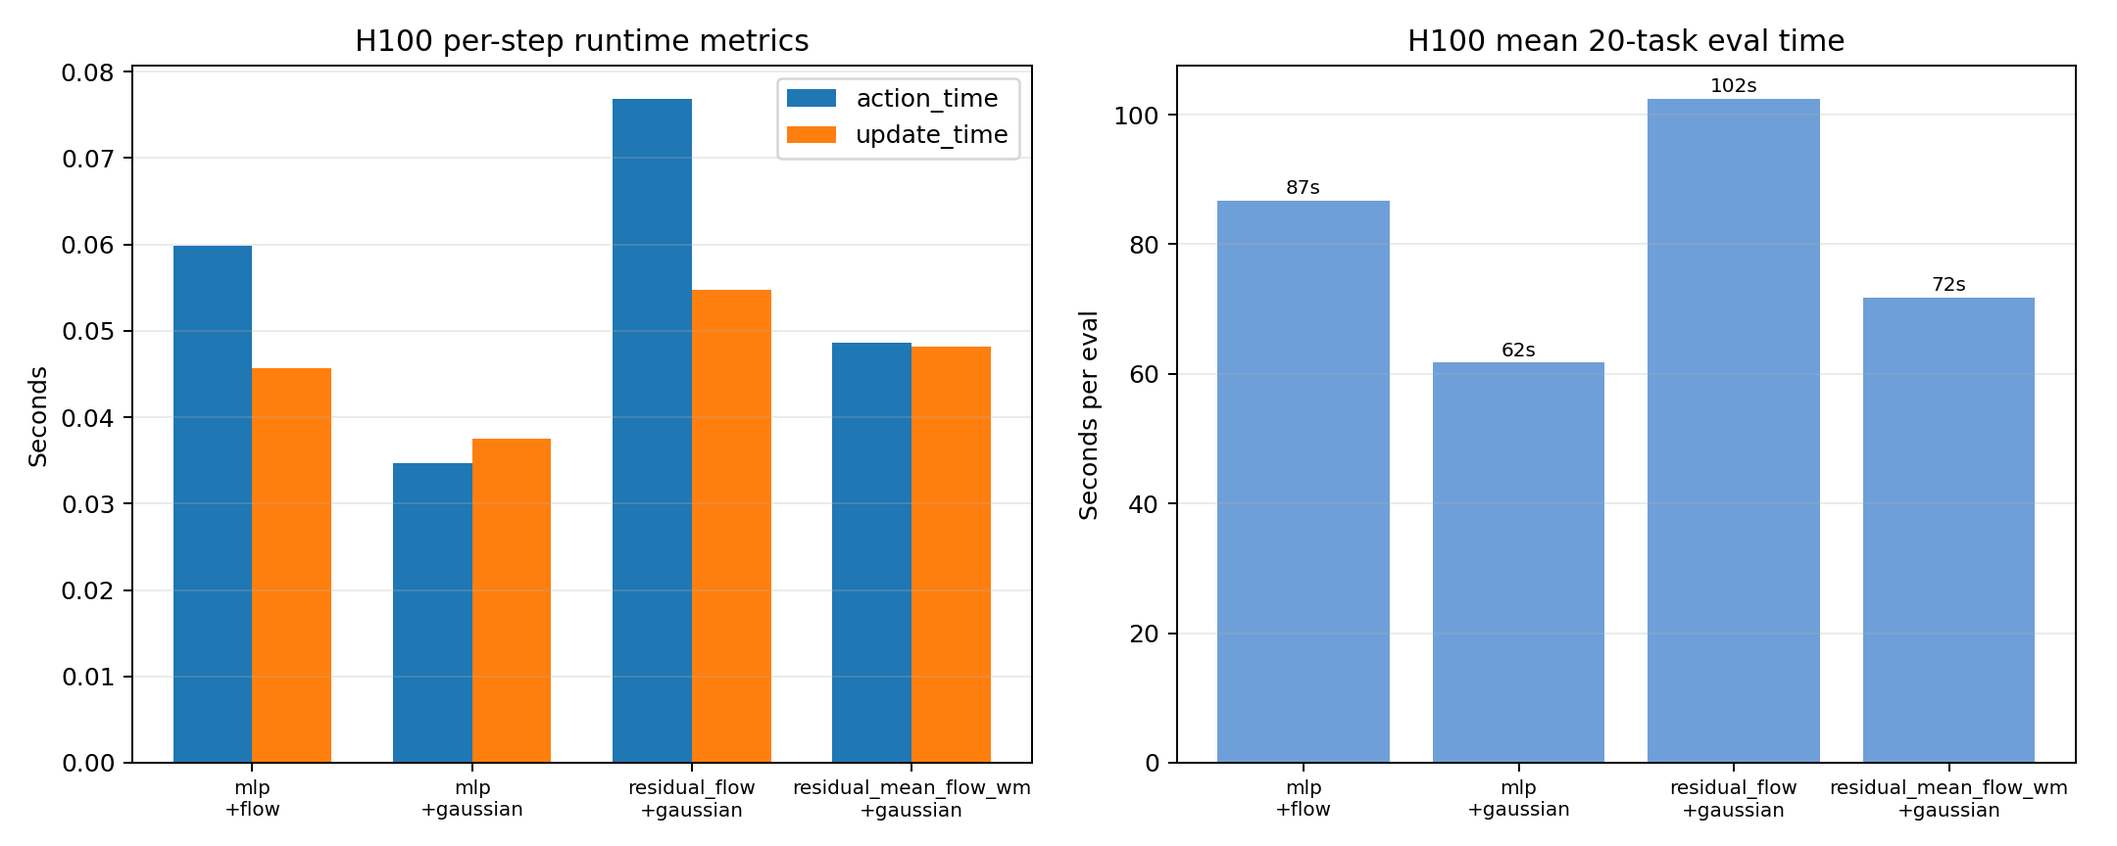
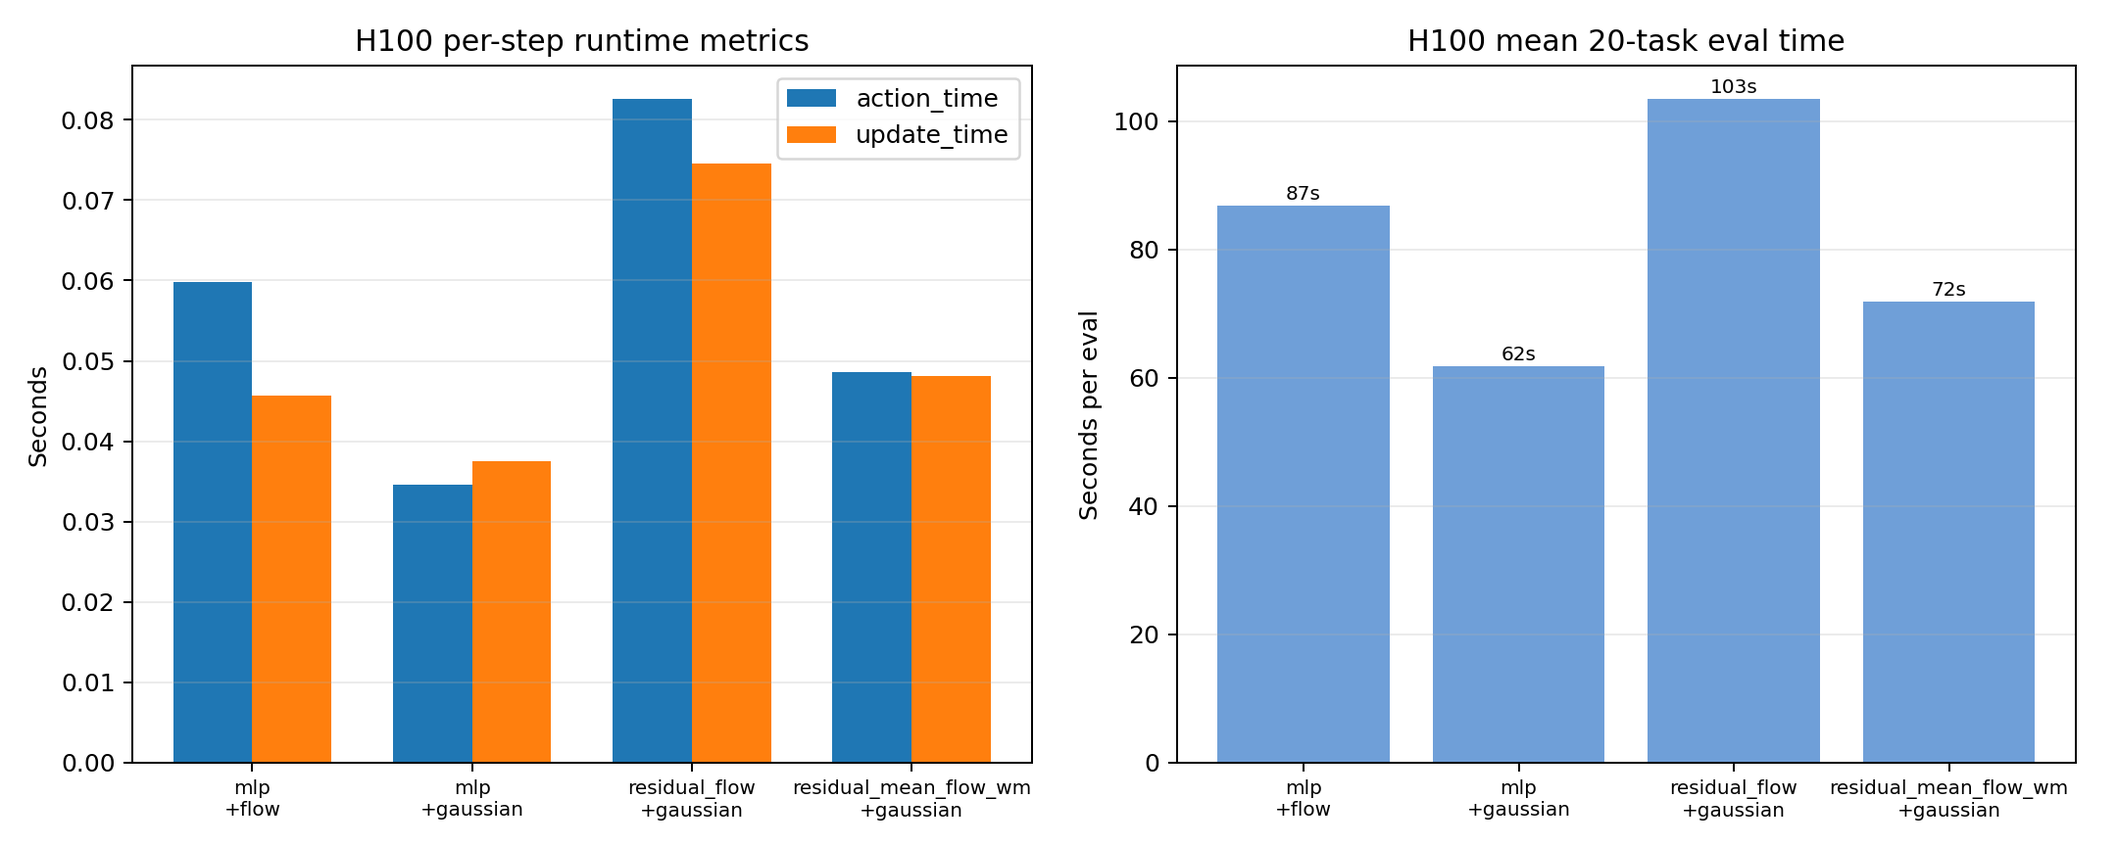
Update subset20 experiment status

diff --git a/docs/newt_progress_revision_suggestions.md b/docs/newt_progress_revision_suggestions.md
@@ -1,0 +1,100 @@
+# Newt Progress Report Revision Suggestions
+
+These are suggested English additions for `docs/Newt_progress.pdf`, focused on the empty `Conclusion & Insights` and `Problems & Next Steps` sections. They are written to complement the existing tables rather than repeat them.
+
+## Quick Fixes Before Finalizing
+
+- In Key Results, the `Our subset40 best completed 2x2` note should say `best single run 0.339`, not `0.256`.
+- Replace `randomly choosen` with `randomly chosen`.
+- Clarify that current `mean +/- std` values are mostly across completed GPU/replicate runs, not true independent random seeds, unless a table explicitly uses seeds.
+- Keep the caveat that subset20/subset40 scores are not directly comparable to the official 200-task Newt score, because the task distribution and number of tasks differ.
+
+## Suggested: Conclusion & Insights
+
+- **We preserved the Newt pipeline and isolated architecture changes.**
+  - The experiments keep the original offline-pretrain + online-RL + MPC evaluation structure.
+  - The main changes are only the latent world-model dynamics and the policy prior.
+  - This makes the results interpretable as architecture ablations, not a new pipeline.
+
+- **The main signal is asymmetric: flow policy is more promising than flow WM.**
+  - `MLP WM + flow policy` gives the strongest peak-score signal.
+  - Replacing the MLP world model with flow dynamics has not reliably improved performance.
+  - Interpretation: the policy prior may benefit from richer action distributions, while the world model must remain stable and cheap for repeated MPC rollouts.
+
+- **The original MLP world model is a strong inductive bias for Newt.**
+  - Closed-loop MPC repeatedly queries the latent dynamics during planning.
+  - A small deterministic MLP predictor can work well if it is locally accurate, stable, and fast.
+  - Flow dynamics adds expressivity, but that expressivity is not useful unless the planner can exploit uncertainty or multi-modal predictions.
+
+- **Flow-WM works better as a residual correction than as a full replacement.**
+  - Pure flow dynamics is clearly weak.
+  - Residual-flow variants are consistently better than pure flow, but still below MLP-WM baselines.
+  - Research implication: flow is more plausible as an uncertainty/correction layer on top of MLP dynamics than as the entire dynamics model.
+
+- **Higher per-task interaction gives clearer architecture signals.**
+  - subset40 5M is mainly a fast screen: about 125k steps per task.
+  - subset20 10M reaches about 500k steps per task, matching the per-task budget of the official 100M/200-task setting.
+  - Scores become much stronger in subset20, suggesting architecture comparisons need enough online data to be meaningful.
+
+- **Compute cost changes the conclusion.**
+  - `MLP WM + Gaussian policy` remains the strongest Pareto baseline: reliable, stable, and fast.
+  - `MLP WM + flow policy` has the best peak signal but is slower and less stable.
+  - `Residual-flow WM + Gaussian` is currently dominated: slower than MLP baselines and lower in score.
+
+- **Current research direction.**
+  - Do not prioritize making the whole world model a flow.
+  - Prioritize flow where distributional modeling can affect planning or policy warm-starting.
+  - Most promising directions: cheaper flow policy, residual/uncertainty-aware flow WM, and planner-aware flow rollouts.
+
+## Suggested: Problems & Next Steps
+
+- **Current comparison is not yet official-grade.**
+  - Most averages are over completed GPU/replicate runs, not true random seeds.
+  - subset20/subset40 are useful architecture screens, but they are not directly comparable to the official 200-task Newt benchmark.
+  - Next: rerun the strongest cells with fixed tasks, fixed hardware, and at least 3 true seeds.
+
+- **Training stability is still unresolved.**
+  - Some high-performing runs show strong peak scores but lower final scores, especially `MLP WM + flow policy` and residual-flow WM.
+  - Final score alone may miss useful transient gains; peak score alone may overstate robustness.
+  - Next: report final score, peak score, score-vs-step curves, and area under the learning curve.
+
+- **Average score is too coarse to explain why flow helps or fails.**
+  - Flow may help specific domains, horizons, or contact-heavy tasks while hurting others.
+  - A single averaged MMBench score cannot distinguish global failure from domain-specific tradeoffs.
+  - Next: add domain-level curves and a small number of task-level visualizations; keep the full task breakdown in the appendix.
+
+- **Flow-WM may have a planner/objective mismatch.**
+  - The flow dynamics are trained for next-latent prediction, but MPC needs stable multi-step rollouts under candidate action sequences.
+  - If flow uncertainty is not used by the planner, extra expressivity can become sampling noise rather than useful planning information.
+  - Next: test multi-step latent rollout losses, uncertainty-aware MPC scoring, and residual corrections that only model MLP prediction error.
+
+- **Flow policy has a real signal, but its compute cost must be justified.**
+  - `MLP WM + flow policy` gives the strongest peak signal, but action selection is slower than the Gaussian prior.
+  - The key question is whether the score gain survives true-seed repeats and remains Pareto-efficient.
+  - Next: try cheaper flow-policy variants, including fewer flow steps, flow-to-Gaussian distillation, or using flow only to initialize CEM candidates.
+
+- **Recommended next experiments.**
+  - Run controlled subset20 10M true-seed repeats for `MLP+Gaussian`, `MLP+flow policy`, `residual_flow+Gaussian`, and `residual_mean_flow+Gaussian`.
+  - Extend the best two subset20 cells to 20M to test whether peak-to-final drops are noise or real plateaus.
+  - Run subset40 10M for `MLP+Gaussian` and `MLP+flow policy` to test whether the flow-policy signal survives more tasks.
+  - Add world-model diagnostics: one-step latent error, multi-step rollout error, reward prediction error, Q-value consistency, and flow-sample calibration.
+  - Test a planner-aware flow-WM where MPC evaluates multiple latent transition samples or uses uncertainty/risk penalties.
+  - Scale toward the full 200-task official setting only after the subset20/subset40 signal is robust.
+
+## Optional Ablation Mini-Conclusions
+
+### Architecture Ablation
+
+The 2x2 result should be read as evidence that the MLP world model is currently the anchor of performance. Flow policy can help when attached to the MLP world model, but flow dynamics does not rescue performance when the MLP dynamics is removed.
+
+### Flow-WM Variants
+
+The variant comparison shows that residualizing flow is necessary but not sufficient. Pure flow is clearly weak, endpoint flow is better but still not competitive, and residual/shortcut/OT-CFM variants are close to each other. This means the current limitation is probably not just the exact flow parameterization; it is how the flow prediction is used by the planner and trained for rollout utility.
+
+### Compute / Runtime Ablation
+
+Runtime should be treated as part of the scientific result. A variant that slightly improves peak score but substantially slows action selection may not be attractive for MPC-based online RL, where the world model is queried many times per environment step.
+
+### Training Budget / Scaling Ablation
+
+The scaling ablation supports using fewer tasks with higher per-task steps as an intermediate research regime. It gives a clearer learning signal while preserving the same offline-pretrain plus online-RL pipeline, but it should be presented as an architecture-development setting rather than an official benchmark replacement.

diff --git a/docs/experiment_results_summary.md b/docs/experiment_results_summary.md
@@ -1,6 +1,6 @@
 # Experiment Results Summary
 
-Last updated: 2026-06-11 03:38 EDT
+Last updated: 2026-06-11 14:52 EDT
 
 Metric: `avg_score`, the Newt/MMBench normalized score averaged over evaluated tasks. This is the same normalized-score definition used by the official Newt paper, but our local subset20/subset40 results are not directly comparable to the official 200-task protocol.
 
@@ -59,28 +59,29 @@ Metric: `avg_score`, the Newt/MMBench normalized score averaged over evaluated t
 | Subset40 WM variant | 40 | 5M + 50k demo | endpoint_flow | Gaussian | H200 | complete | 5M | 0.19475 | Endpoint flow not competitive. |
 | Subset40 WM variant | 40 | 5M + 50k demo | endpoint_flow | Gaussian | L40S | complete | 5M | 0.18724 | Endpoint flow not competitive. |
 | Subset20 10M high-step | 20 | 10M target + 50k demo | MLP | Gaussian | H100 | complete | 10.0M | 0.53816 | First completed 10M subset20 cell; peak observed eval was 0.59102 at 8.8M. |
-| Subset20 10M high-step | 20 | 10M target + 50k demo | MLP | flow | L40S | resubmitted | 8.8M | 0.46663 | Preempted again and resubmitted as `9820444_[1]`; peak observed eval was 0.55132 at 8.0M. |
+| Subset20 10M high-step | 20 | 10M target + 50k demo | MLP | flow | L40S | complete | 10.0M | 0.50825 | Reached 10M; peak observed eval was 0.55390 at 9.4M. |
 | Subset20 10M high-step | 20 | 10M target + 50k demo | MLP | Gaussian | L40S | complete | 10.0M | 0.48801 | Completed 10M despite Slurm preemption label; peak observed eval was 0.55139 at 7.4M. |
 | Subset20 10M high-step | 20 | 10M target + 50k demo | MLP | Gaussian | H200 | reached target | 10.0M | 0.49223 | Reached 10M while job `9809460_0` was still active; peak observed eval was 0.53666 at 7.4M. |
 | Subset20 10M high-step | 20 | 10M target + 50k demo | MLP | flow | H100 | complete | 10.0M | 0.50044 | Reached 10M; peak observed eval was 0.58825 at 4.0M. |
 | Subset20 10M high-step | 20 | 10M target + 50k demo | MLP | flow | H200 | complete | 10.0M | 0.53852 | Reached 10M; peak observed eval was 0.58663 at 8.8M. |
 | Subset20 10M high-step | 20 | 10M target + 50k demo | MLP | Gaussian | A100 | complete | 10.0M | 0.53570 | Completed 10M; peak observed eval was 0.56490 at 9.4M. |
-| Subset20 10M high-step | 20 | 10M target + 50k demo | MLP | flow | A100 | resubmitted | 9.0M | 0.60544 | Best subset20 MLP+flow snapshot so far; preempted and resubmitted as `9820443_[1]`. |
-| Subset20 10M high-step | 20 | 10M target + 50k demo | residual_flow | Gaussian | L40S | resubmitted | 6.6M | 0.43467 | Preempted again and resubmitted as `9820444_[2]`; peak observed eval was 0.44826 at 5.6M. |
-| Subset20 10M high-step | 20 | 10M target + 50k demo | residual_mean_flow_wm | Gaussian | A100 | resubmitted | 8.4M | 0.46637 | Preempted and resubmitted as `9820443_[3]`; peak observed eval was 0.48471 at 7.2M. |
-| Subset20 10M high-step | 20 | 10M target + 50k demo | residual_mean_flow_wm | Gaussian | H200 | running | 8.2M | 0.41040 | Active as `9813253_3`; peak observed eval was 0.46176 at 8.0M. |
+| Subset20 10M high-step | 20 | 10M target + 50k demo | MLP | flow | A100 | complete | 10.0M | 0.57810 | Best subset20 final and peak MLP+flow run so far; peak observed eval was 0.60544 at 9.0M. |
+| Subset20 10M high-step | 20 | 10M target + 50k demo | residual_flow | Gaussian | L40S | running | 7.6M | 0.37208 | Active as `9820444_2`; peak observed eval was 0.45885 at 6.8M. |
+| Subset20 10M high-step | 20 | 10M target + 50k demo | residual_mean_flow_wm | Gaussian | A100 | complete | 10.0M | 0.37559 | Reached 10M; peak observed eval was 0.48471 at 7.2M. |
+| Subset20 10M high-step | 20 | 10M target + 50k demo | residual_mean_flow_wm | Gaussian | H200 | complete | 10.0M | 0.39218 | Reached 10M; peak observed eval was 0.47535 at 9.0M. |
 | Subset20 10M high-step | 20 | 10M target + 50k demo | residual_mean_flow_wm | Gaussian | H100 | complete | 10.0M | 0.48851 | Completed 10M despite Slurm preemption label; peak observed eval was 0.49207 at 9.2M. |
-| Subset20 10M high-step | 20 | 10M target + 50k demo | residual_flow | Gaussian | H100 | resubmitted | 8.8M | 0.44898 | Preempted again and resubmitted as `9820441_[2]`; peak observed eval was 0.51065 at 6.0M. |
-| Subset20 10M high-step | 20 | 10M target + 50k demo | residual_flow | Gaussian | A100 | resubmitted | 6.6M | 0.44067 | Timed out and resubmitted as `9820443_[2]`; peak observed eval was 0.47201 at 6.0M. |
-| Subset20 10M high-step | 20 | 10M target + 50k demo | residual_mean_flow_wm | Gaussian | L40S | resubmitted | 8.4M | 0.40662 | Preempted again and resubmitted as `9820444_[3]`; peak observed eval was 0.41503 at 7.4M. |
-| Subset20 10M high-step | 20 | 10M target + 50k demo | residual_flow | Gaussian | H200 | resubmitted | 6.4M | 0.43120 | Preempted and resubmitted as `9820442_[2]`; peak observed eval was 0.47019 at 5.4M. |
+| Subset20 10M high-step | 20 | 10M target + 50k demo | residual_flow | Gaussian | H100 | complete | 10.0M | 0.45304 | Reached 10M; peak observed eval was 0.51065 at 6.0M. |
+| Subset20 10M high-step | 20 | 10M target + 50k demo | residual_flow | Gaussian | A100 | resubmitted | 7.4M | 0.43775 | Resubmitted as `9835925_[2]`; peak observed eval was 0.49544 at 7.0M. |
+| Subset20 10M high-step | 20 | 10M target + 50k demo | residual_mean_flow_wm | Gaussian | L40S | running | 9.2M | 0.44734 | Active as `9820444_3`; current score is also its peak. |
+| Subset20 10M high-step | 20 | 10M target + 50k demo | residual_flow | Gaussian | H200 | resubmitted | 8.8M | 0.47051 | Resubmitted as `9835924_[2]`; peak observed eval was 0.47997 at 7.8M. |
 
 Current read:
 
 - Best completed subset40 result is `MLP WM + flow policy` on H200: `0.33909`.
 - Best completed flow-WM result is `residual_flow + Gaussian` on L40S/A100: `0.25576` / `0.25500`.
 - New residual variants (`shortcut`, `residual_mean`, `ot_cfm`) did not beat plain `residual_flow` on completed subset40 evals.
-- The subset20 high-step direction is much stronger overall, with completed 10M rows for H100/L40S `MLP + Gaussian` and H100 `residual_mean_flow_wm + Gaussian`; these are still not directly comparable to official 200-task results.
-- Current subset20 ranking still favors MLP WM. A100 `MLP + flow` reached the best peak so far, 0.60544 at 9.0M, but completed MLP+flow finals are lower.
+- The subset20 high-step direction is much stronger overall, with most MLP-WM cells now complete at 10M; these are still not directly comparable to official 200-task results.
+- Current subset20 ranking still favors MLP WM. A100 `MLP + flow` reached the best final and peak so far: 0.57810 final at 10M and 0.60544 peak at 9.0M.
 - The strongest completed original-style baseline remains `MLP + Gaussian`, with H100 0.53816 and A100 0.53570 at 10M; H200 reached 10M at 0.49223.
-- H100 `residual_flow + Gaussian` remains the strongest flow-WM signal by peak at 0.51065, but its latest score regressed to 0.44898 by 8.8M and it remains slower.
+- H100 `residual_flow + Gaussian` remains the strongest flow-WM signal by peak at 0.51065, but its 10M final is 0.45304 and it remains slower.
+- A100/H200 `residual_flow + Gaussian` were resubmitted as `9835925_[2]` and `9835924_[2]` to finish their remaining steps toward 10M.

diff --git a/docs/subset20_high_steps_plan.md b/docs/subset20_high_steps_plan.md
@@ -775,6 +775,65 @@ Current read:
 - Flow-WM progress is mixed. H100 `residual_flow` still has the best flow-WM peak, `0.51065`, but its latest eval regressed to `0.44898` by 8.8M.
 - Completed MLP baselines remain more reliable than flow-WM cells. H100/A100 `mlp + gaussian` both finish around `0.536-0.538`; H200/H100 completed `mlp + flow` finals are lower than their peaks.
 
+## 2026-06-11 14:52 EDT status check
+
+Regenerated ablation tables/figures with:
+
+```bash
+/storage/project/r-agarg35-0/eliu354/envs/newt_official_20260602/bin/python scripts/generate_ablation_insights.py --out-dir docs/assets/ablation_insights_20260610
+```
+
+Latest highest-step eval snapshot:
+
+| Run | Highest train step | Highest eval step | `avg_score` | Peak `avg_score` | Status |
+| --- | ---: | ---: | ---: | ---: | --- |
+| A100 `mlp + flow` | 10.0M | 10.0M | 0.57810 | 0.60544 | complete; best subset20 final/peak so far |
+| H200 `mlp + flow` | 10.0M | 10.0M | 0.53852 | 0.58663 | complete |
+| H100 `mlp + gaussian` | 10.0M | 10.0M | 0.53816 | 0.59102 | complete |
+| A100 `mlp + gaussian` | 10.0M | 10.0M | 0.53570 | 0.56490 | complete |
+| L40S `mlp + flow` | 10.0M | 10.0M | 0.50825 | 0.55390 | complete |
+| H100 `mlp + flow` | 10.0M | 10.0M | 0.50044 | 0.58825 | complete |
+| H200 `mlp + gaussian` | 10.0M | 10.0M | 0.49223 | 0.53666 | complete |
+| L40S `mlp + gaussian` | 10.0M | 10.0M | 0.48801 | 0.55139 | complete |
+| H100 `residual_mean_flow_wm + gaussian` | 10.0M | 10.0M | 0.48851 | 0.49207 | complete |
+| H100 `residual_flow + gaussian` | 10.0M | 10.0M | 0.45304 | 0.51065 | complete |
+| H200 `residual_flow + gaussian` | 8.98M | 8.8M | 0.47051 | 0.47997 | resubmitted |
+| L40S `residual_mean_flow_wm + gaussian` | 9.26M | 9.2M | 0.44734 | 0.44734 | running |
+| A100 `residual_flow + gaussian` | 7.42M | 7.4M | 0.43775 | 0.49544 | resubmitted |
+| H200 `residual_mean_flow_wm + gaussian` | 10.0M | 10.0M | 0.39218 | 0.47535 | complete |
+| A100 `residual_mean_flow_wm + gaussian` | 10.0M | 10.0M | 0.37559 | 0.48471 | complete |
+| L40S `residual_flow + gaussian` | 7.70M | 7.6M | 0.37208 | 0.45885 | running |
+
+Repair submissions:
+
+| Job | Partition | Array | Run tag | Cell | Reason |
+| ---: | --- | --- | --- | --- | --- |
+| `9835924` | `gpu-h200` | `2` | `h200-r1` | `residual_flow + gaussian` | Previous H200 run timed out before 10M; resume from latest checkpoint. |
+| `9835925` | `gpu-a100` | `2` | `a100-r1` | `residual_flow + gaussian` | Previous A100 run was preempted before 10M; resume from latest checkpoint. |
+
+Next controlled-repeat submissions:
+
+| Job | Partition | Array | Run tag | Seed | Cells | W&B group |
+| ---: | --- | --- | --- | ---: | --- | --- |
+| `9836001` | `gpu-h200` | `0-1` | `h200-seed2` | 2 | `mlp + gaussian`, `mlp + flow` | `subset20-10m-true-seeds` |
+| `9836002` | `gpu-h200` | `0-1` | `h200-seed3` | 3 | `mlp + gaussian`, `mlp + flow` | `subset20-10m-true-seeds` |
+
+Queue after resubmission:
+
+- `9820444_2`: L40S `residual_flow + gaussian`, running.
+- `9820444_3`: L40S `residual_mean_flow_wm + gaussian`, running.
+- `9835924_[2]`: H200 `residual_flow + gaussian`, pending for priority.
+- `9835925_[2]`: A100 `residual_flow + gaussian`, pending for priority.
+- `9836001_[0-1]`: H200 seed-2 repeats for the two MLP-WM cells, pending for priority.
+- `9836002_[0-1]`: H200 seed-3 repeats for the two MLP-WM cells, pending for priority.
+
+Current read:
+
+- MLP-WM remains the clear subset20 winner. A100 `mlp + flow` now has the best 10M final (`0.57810`) and best peak (`0.60544`).
+- Flow-WM did not close the gap at 10M. H100 `residual_flow` peaked at `0.51065` but finished at `0.45304`; `residual_mean_flow_wm` is generally lower or unstable across hardware.
+- The remaining useful work is to finish A100/H200/L40S `residual_flow` and L40S `residual_mean_flow_wm` to complete the flow-WM comparison.
+- In parallel, the new H200 seed-2/seed-3 repeats test whether the observed `MLP+flow` advantage over `MLP+gaussian` is robust enough to report as more than a single-seed/hardware signal.
+
 ## Success Criteria
 
 Primary metric:

diff --git a/docs/ablation_insights_summary.md b/docs/ablation_insights_summary.md
@@ -7,7 +7,7 @@ Source metrics:
 - Local run logs: `outputs/logs/soup/1/*/metrics.jsonl`
 - Generated tables/figures: `docs/assets/ablation_insights_20260610/`
 - W&B project: https://wandb.ai/danny010324/newt-flow-2x2
-- Latest figure refresh: 2026-06-11 03:38 EDT. The subset20 high-step CSVs and figures were regenerated because new H200 subset20 metrics arrived.
+- Latest figure refresh: 2026-06-11 14:52 EDT. The subset20 high-step CSVs and figures were regenerated because new 10M completions and residual-flow continuations arrived.
 
 Important caveat: `mean +/- std` below is over completed local runs across GPU/replicate labels, not over independent random seeds unless explicitly stated.
 
@@ -20,8 +20,8 @@ Important caveat: `mean +/- std` below is over completed local runs across GPU/r
 | Official TD-MPC2 single-task | 200 | 1B total across 200 single-task agents | MLP WM | Gaussian + MPC | 1B | 0.800 | n/a | Upper reference, not a multitask agent. |
 | Our subset40 best completed 2x2 | 40 | 5M + 50k demo | MLP WM | Flow policy | 5M | 0.321 +/- 0.012 | 0.339 | Mean +/- std over 4 completed runs; best single run 0.339. Best completed 2x2 architecture. |
 | Our subset40 best flow-WM | 40 | 5M + 50k demo | Residual_flow WM | Gaussian | 5M | 0.232 +/- 0.027 | 0.256 | Mean +/- std over 4 completed runs; best single run 0.256. Best flow-WM variant, still below MLP WM. |
-| Our subset20 strongest signal | 20 | 10M target + 50k demo | MLP WM | Flow policy | 8.8M-10.0M current | 0.467-0.605 | 0.605 | Best peak architecture signal; A100 reached 0.605 at 9.0M, while completed H100/H200 finals are lower. |
-| Our subset20 promising flow-WM | 20 | 10M target + 50k demo | Residual_flow WM | Gaussian | 6.4M-8.8M current | 0.431-0.449 | 0.511 | H100 residual_flow peak is still the strongest flow-WM signal, but latest scores regressed and remain below MLP-WM peak. |
+| Our subset20 strongest signal | 20 | 10M target + 50k demo | MLP WM | Flow policy | 10.0M | 0.500-0.578 | 0.605 | All four hardware/replicate labels reached 10M; A100 is best with 0.578 final and 0.605 peak. |
+| Our subset20 promising flow-WM | 20 | 10M target + 50k demo | Residual_flow WM | Gaussian | 7.4M-10.0M current | 0.372-0.471 | 0.511 | H100 residual_flow peak is still the strongest flow-WM signal, but 10M H100 final is 0.453 and remains below MLP-WM peak. |
 
 ## Architecture Ablation
 
@@ -104,7 +104,7 @@ Definitions:
 | --- | ---: | ---: | ---: | ---: | ---: | ---: | --- |
 | MLP + flow policy | 10.0M | 0.500 | 0.588 | 0.060s | 0.046s | 86.8s | Best current peak score signal, but final score dipped while action planning remains slower than Gaussian. |
 | MLP + Gaussian | 10.0M | 0.538 | 0.591 | 0.035s | 0.038s | 61.7s | Original Newt setting; fastest strong baseline on H100. |
-| residual_flow + Gaussian | 8.8M | 0.449 | 0.511 | 0.077s | 0.055s | 102.5s | Best flow-WM peak so far, but latest score regressed and remains slower than MLP choices. |
+| residual_flow + Gaussian | 10.0M | 0.453 | 0.511 | 0.083s | 0.074s | 103.4s | Best flow-WM peak so far, but 10M final remains below MLP choices and action/update time is higher. |
 | residual_mean_flow_wm + Gaussian | 10.0M | 0.489 | 0.492 | 0.049s | 0.048s | 71.8s | Cheaper than residual_flow but still below MLP WM. |
 
 Figure:
@@ -114,7 +114,7 @@ Figure:
 Conclusion:
 
 - `MLP + flow policy` is the best score candidate but increases action/planning-time cost.
-- `residual_flow` costs more action time while producing lower score, so it is currently dominated by MLP-based choices.
+- `residual_flow` costs more action/update time while producing lower score, so it is currently dominated by MLP-based choices.
 - Logged `steps_per_second` and wall-clock estimates are resume/preemption-sensitive; use them as rough diagnostics, not final claims. For final reporting, compute wall-clock from Slurm accounting after jobs finish.
 
 ## Training Budget / Scaling Ablation
